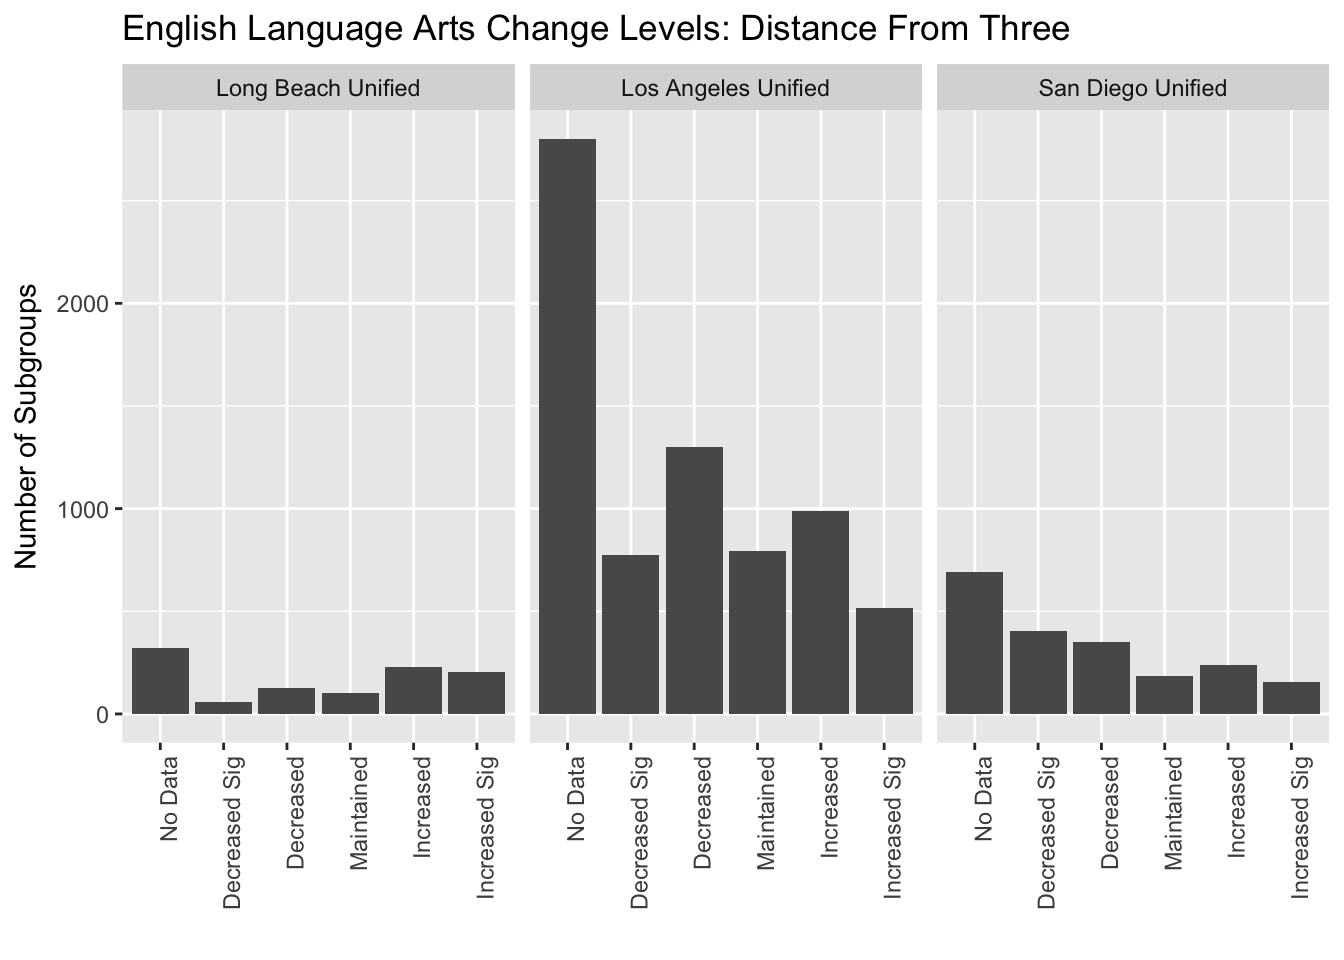
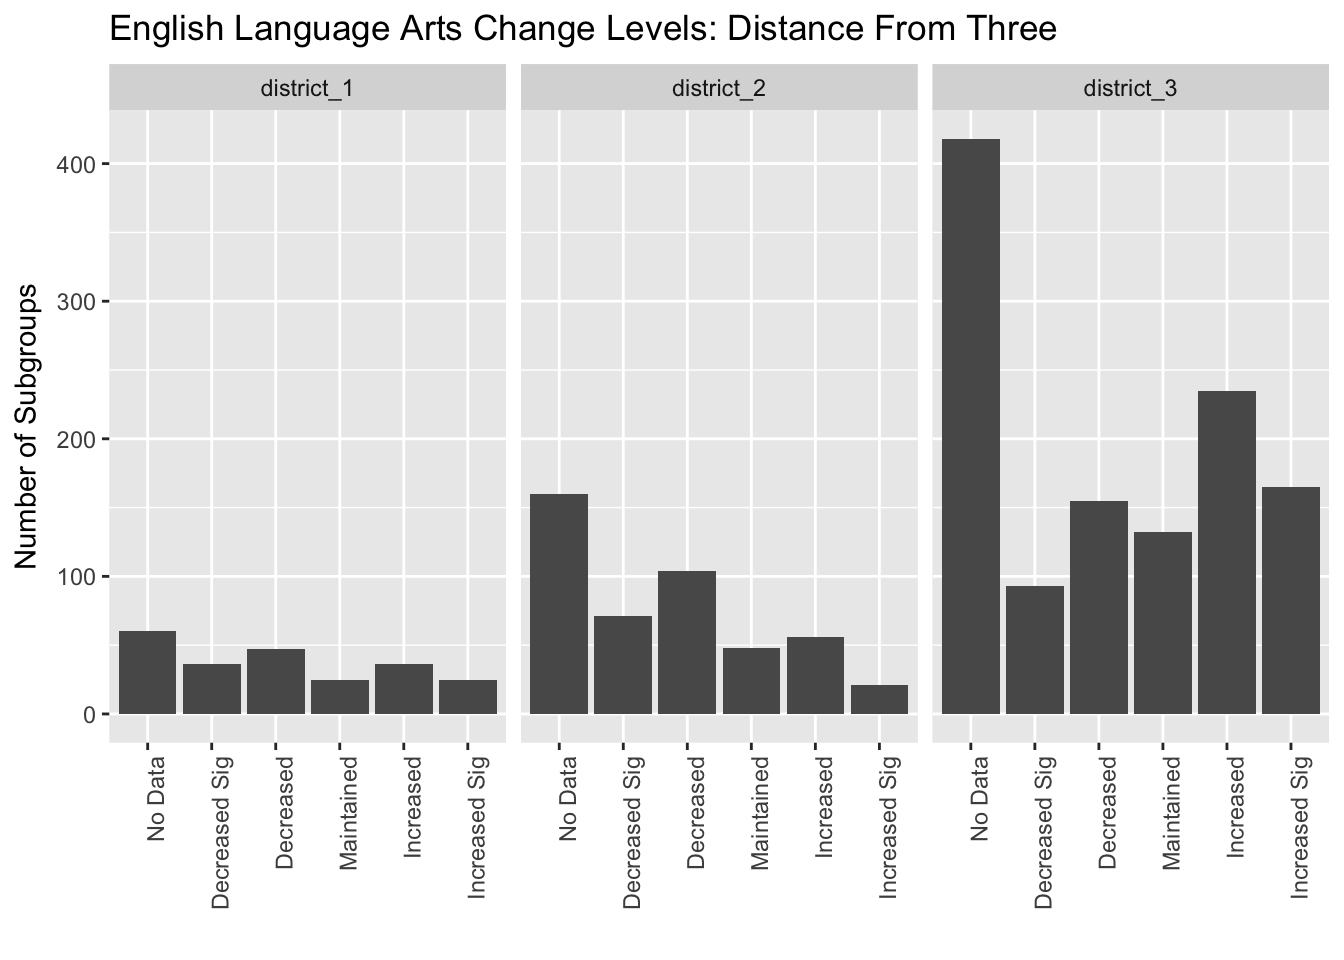
Use anonymized datasets

diff --git a/content/post/2018-01-27-california-school-dashboards-part-2-visualizing-the-data.html b/content/post/2018-01-27-california-school-dashboards-part-2-visualizing-the-data.html
@@ -14,9 +14,9 @@ draft: TRUE
 <p><a href="https://www.niche.com/k12/search/largest-school-districts/s/california/">Three largest school districts in California</a></p>
 <pre class="r"><code># A list of urls for each dataset
 urls &lt;- as.list(c(
-  &quot;https://query.data.world/s/RBwim7uqVwPq73bkHsYKVHbshZst0M&quot;, 
-  &quot;https://query.data.world/s/LSizff8-rMxKNcvkhaGkHqaPhRnt-N&quot;, 
-  &quot;https://query.data.world/s/CekXKAmUmvwDMqbWS4RDu6texq6rNn&quot;
+  &quot;https://raw.githubusercontent.com/restrellado/data_for_blog/master/SomeDistrictela_1.txt&quot;, 
+  &quot;https://raw.githubusercontent.com/restrellado/data_for_blog/master/SomeDistrictela_2.txt&quot;, 
+  &quot;https://raw.githubusercontent.com/restrellado/data_for_blog/master/SomeDistrictela_3.txt&quot;
 ))</code></pre>
 <pre class="r"><code>all_files &lt;- urls %&gt;% map(~read_tsv(., col_types = cols(cds = col_character())))</code></pre>
 <pre class="r"><code># Create list names
@@ -26,14 +26,14 @@ list_names &lt;- all_files %&gt;% map(~unique(.$districtname))
 clean_data &lt;- all_files %&gt;% map(clean_dashboard) %&gt;% 
   set_names(nm = list_names)</code></pre>
 <pre class="r"><code>clean_data %&gt;% map(dim)</code></pre>
-<pre><code>## $`Long Beach Unified`
-## [1] 1037    9
+<pre><code>## $district_1
+## [1] 229   9
 ## 
-## $`Los Angeles Unified`
-## [1] 7178    9
+## $district_2
+## [1] 460   9
 ## 
-## $`San Diego Unified`
-## [1] 2021    9</code></pre>
+## $district_3
+## [1] 1198    9</code></pre>
 <pre class="r"><code>clean_data &lt;- clean_data %&gt;% bind_rows()</code></pre>
 <pre class="r"><code>ggplot(data = clean_data) + 
   geom_bar(aes(x = changelevel)) + 
